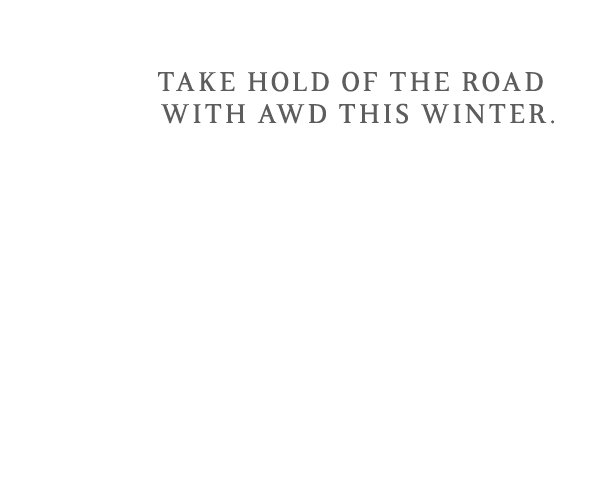
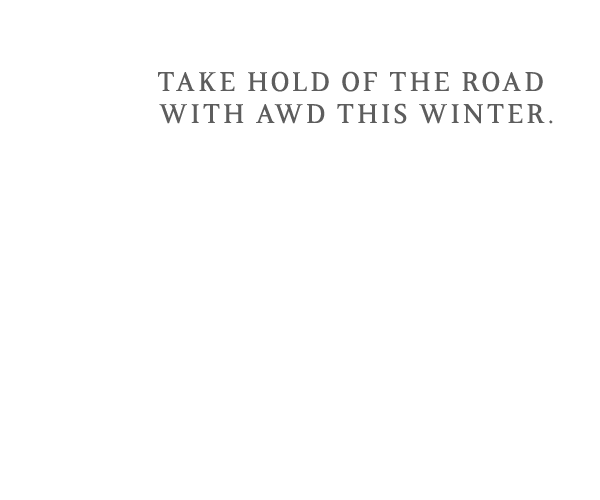
Copy update, and animation update

Changed region(s): [[0.27, 0.21, 0.93, 0.27]]

diff --git a/app/rich/templates/js/animations/en/300x250.js b/app/rich/templates/js/animations/en/300x250.js
@@ -6,7 +6,7 @@ var timeline = new TimelineLite({onComplete: onComplete});
             .to('.masks .m2', 0.8, {height:183}, 'start').add('frame1-m2')
             .to('.masks .m4', 0.8, {width:123,left:178}, 'frame1-m2').add('frame1-m4')
             .to('.masks .m3, .masks .m5', 0.85, {width:178,left:0}, 'frame1-m4')
-            .to('.copy2', 0.8, {left:4})
+            .to('.copy2', 0.8, {left:2})
             .addDelay(2, 'frame2')
         timeline.add('f2-transition')
             .to('.background-container', 0, {height:"-=20"})
@@ -16,7 +16,7 @@ var timeline = new TimelineLite({onComplete: onComplete});
             .to('.masks .m3', 0, {width:{width}}, 'f2-transition')
             .to('.masks .m3', 1, {top:118, height: 79}, 'f2-transition')
             .to('.mask.m5', 1, {top:200}, 'f2-transition')
-            .to('.copy2', 0.8, {top: -60}, 'f2-transition')
+            .to('.copy2', 0.8, {top: -64}, 'f2-transition')
             .to('.background-container', 1, {left:0, width:275, height:128, top:-10}, 'f2-transition')
             .to('.background-container img', 1, {top:-71}, 'f2-transition')
             .to('.copy1,.mask.m5,.masks', 0, {opacity: 0})
